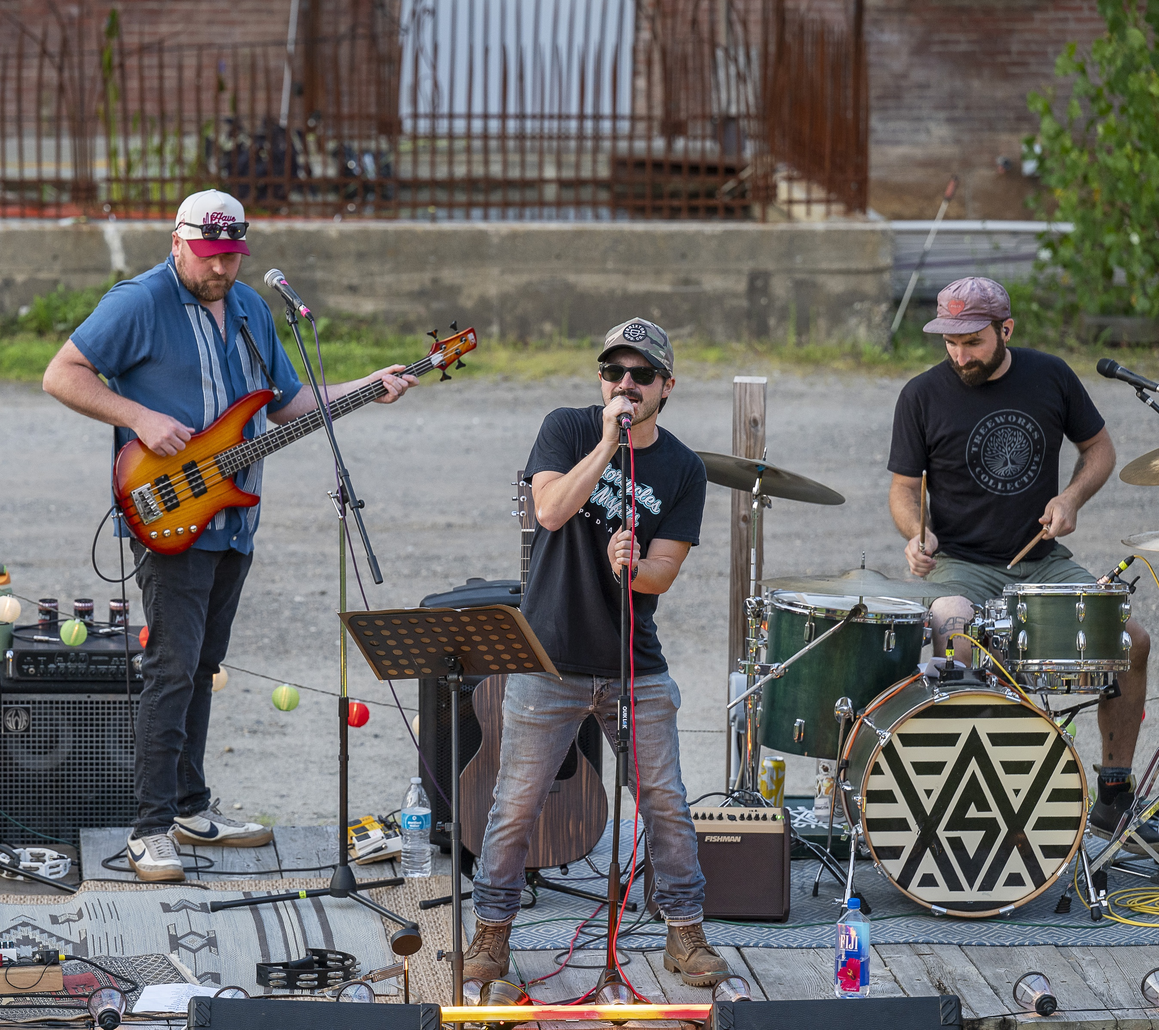
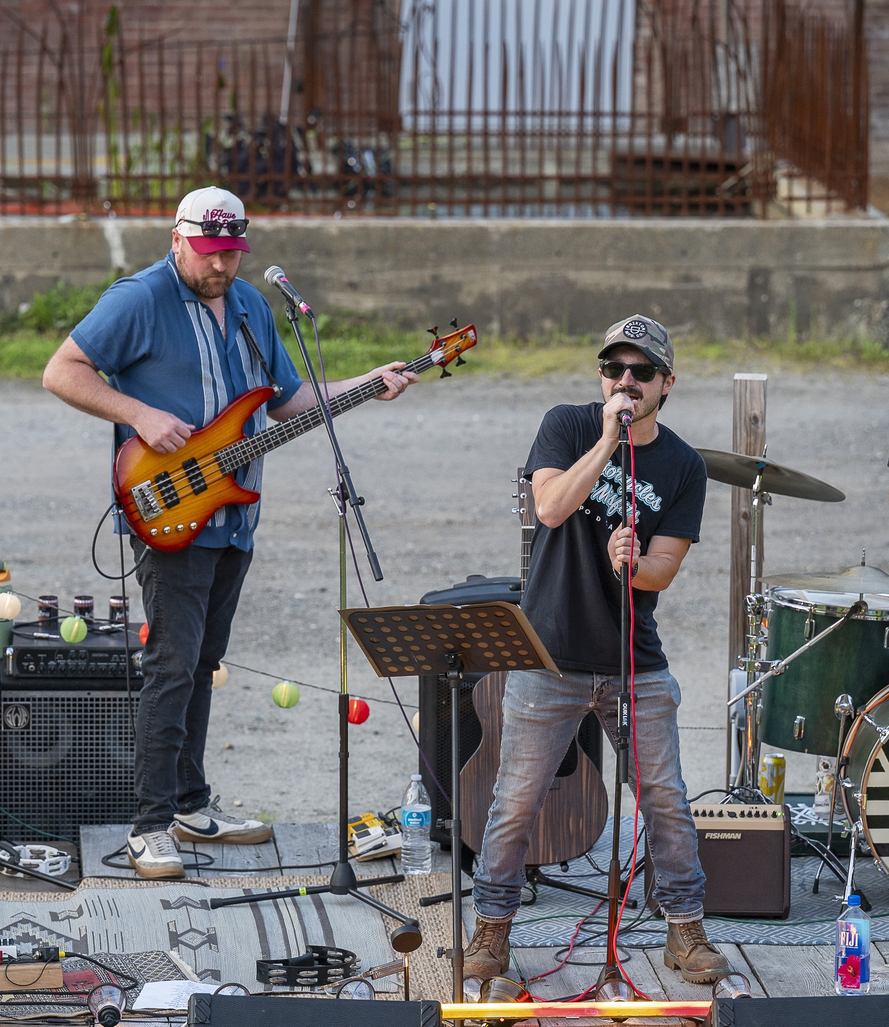
Update show list; fix background image.

diff --git a/src/app/page.tsx b/src/app/page.tsx
@@ -88,12 +88,14 @@ export default function Home() {
 
         {/* Next Show Callout */}
         <div className="bg-black bg-opacity-75 p-6 rounded-lg max-w-md mx-auto mb-4">
-          <h2 className="text-3xl font-bold text-brand-yellow mb-4">Upcoming Shows</h2>
-          {/* <p className="text-xl">Coming soon...</p> */}
-          <a href='https://theparlorroom.my.salesforce-sites.com/ticket/#/events/a0SV5000009skYXMAY/2025-11-11T19:00:00-05:00' target="_blank">
-            <p className="text-2xl">11/11/2025 @ The Iron Horse</p>
-            Pre-order tickets <span className="text-brand-yellow">here!</span>
-          </a>
+          <h2 className="text-2xl font-bold text-brand-yellow mb-4">Upcoming Shows</h2>
+          <p className="text-xl">Coming soon...</p>
+          <div className="hidden">
+            <a href='https://theparlorroom.my.salesforce-sites.com/ticket/#/events/a0SV5000009skYXMAY/2025-11-11T19:00:00-05:00' target="_blank">
+              <p className="text-2xl">11/11/2025 @ The Iron Horse</p>
+              Pre-order tickets <span className="text-brand-yellow">here!</span>
+            </a>
+          </div>
         </div>
 
         {/* About Link */}
